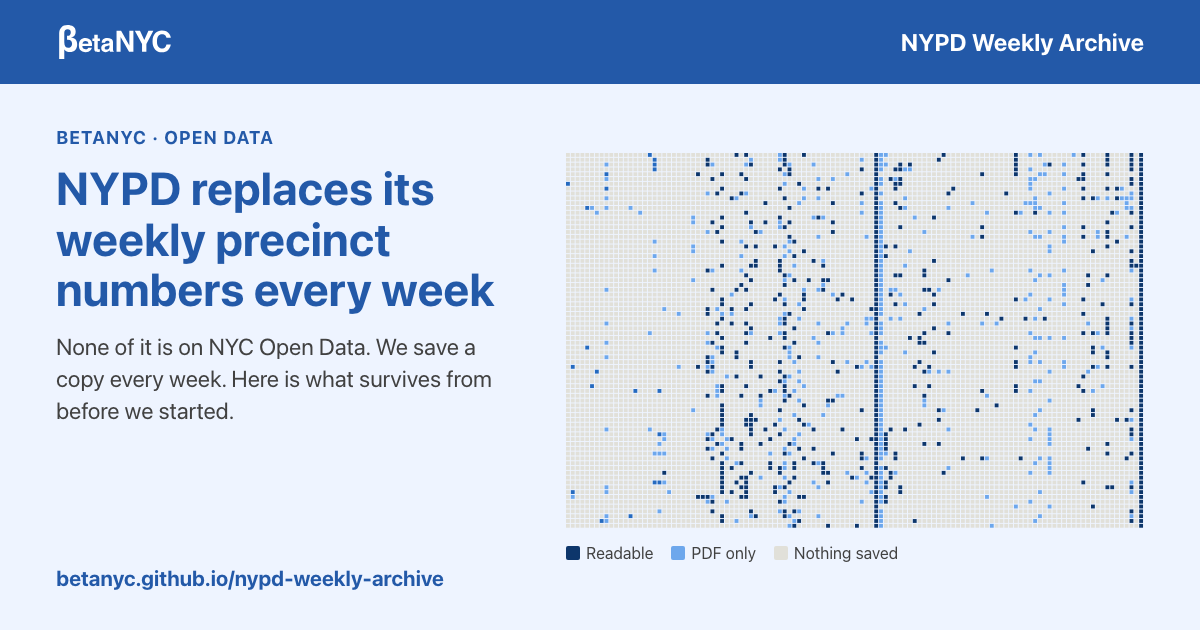
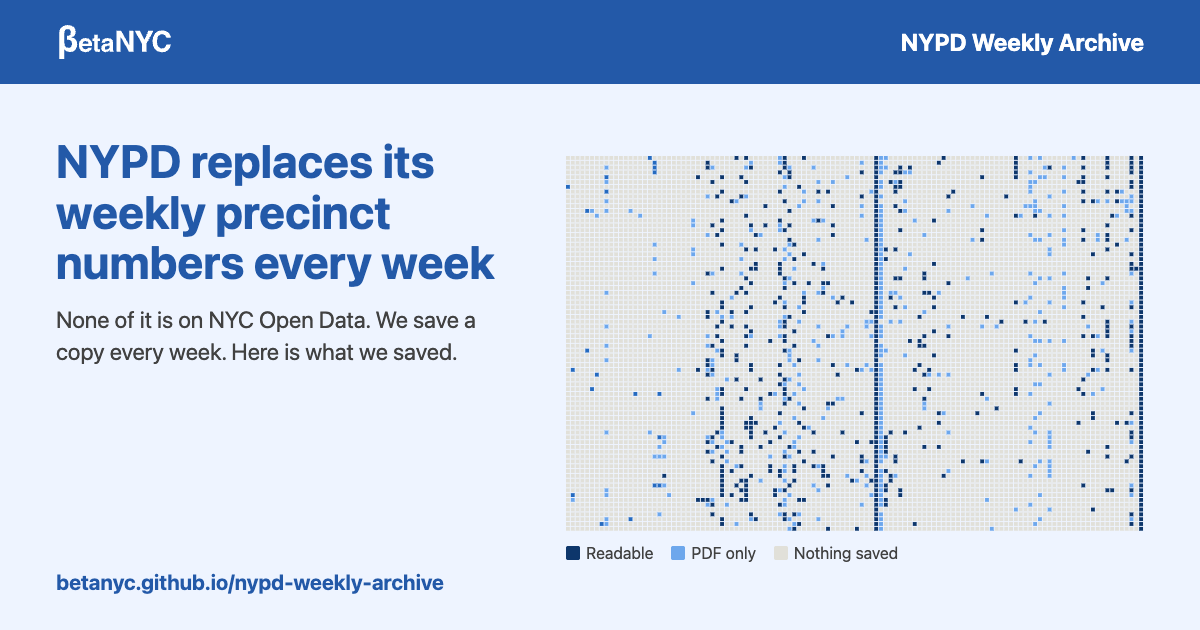
site: say "what we saved", drop the eyebrow line
"Which weeks survive" read wrong next to traffic deaths. Titles, headings,
card links, link previews and the README now say "what we saved". The small
line above each page title is gone, from the share picture too, which is
redrawn.

Refs #14

diff --git a/docs/index.html b/docs/index.html
@@ -11,7 +11,7 @@
 <meta property="og:type" content="website">
 <meta property="og:site_name" content="BetaNYC">
 <meta property="og:title" content="NYPD Weekly Archive: precinct statistics, saved every week">
-<meta property="og:description" content="NYPD replaces its weekly precinct statistics every week, and none of them are on NYC Open Data. We save a copy every week. See which weeks survive for your precinct.">
+<meta property="og:description" content="NYPD replaces its weekly precinct statistics every week, and none of them are on NYC Open Data. We save a copy every week. See what we saved for your precinct.">
 <meta property="og:url" content="https://betanyc.github.io/nypd-weekly-archive/">
 <meta property="og:image" content="https://betanyc.github.io/nypd-weekly-archive/assets/og-image.png">
 <meta property="og:image:width" content="1200">
@@ -49,7 +49,6 @@
 
 <div class="hero">
   <div class="wrap">
-    <span class="tag">BetaNYC · open data</span>
     <h1>NYPD's weekly precinct numbers, saved before they are replaced</h1>
     <p class="lede">Every week, NYPD posts traffic and crime statistics for each of the city's 78 precincts on nyc.gov, as Excel and PDF files. The next week's files go up at the same addresses and the old ones are gone. NYPD does not publish these weekly figures as datasets on NYC Open Data, so once a file is replaced, that week is no longer available from the City.</p>
     <p class="lede">We save a copy of every file each week, turn the spreadsheets into tidy CSV files, and publish both here for anyone to use.</p>
@@ -71,7 +70,7 @@
   </tbody>
 </table></div>
 
-<h2 id="series">Which weeks survive <a class="anchor" href="#series" aria-label="Link to this section">#</a></h2>
+<h2 id="series">What we saved, week by week <a class="anchor" href="#series" aria-label="Link to this section">#</a></h2>
 <p>Each report has its own page, with a chart of the weeks we hold for every precinct and the same facts as a table.</p>
 <ul class="cards">
   <li class="card" data-series="trafficstat">
@@ -79,28 +78,28 @@
     <p>Crashes, injuries and deaths, DWI arrests, and parking and moving summonses.</p>
     <div class="n" data-k="weeks">–</div><div class="l"><span data-k="unit">weeks</span>, <span data-k="range">–</span></div>
     <div class="n" data-k="share">–</div><div class="l">of precinct-weeks held</div>
-    <a class="more" href="trafficstat.html">See which weeks survive<span class="visually-hidden"> for TrafficStat</span></a>
+    <a class="more" href="trafficstat.html">See what we saved<span class="visually-hidden"> for TrafficStat</span></a>
   </li>
   <li class="card" data-series="compstat">
     <h3><a href="compstat.html">CompStat</a></h3>
     <p>Crime complaints, shootings and hate crimes.</p>
     <div class="n" data-k="weeks">–</div><div class="l"><span data-k="unit">weeks</span>, <span data-k="range">–</span></div>
     <div class="n" data-k="share">–</div><div class="l">of precinct-weeks held</div>
-    <a class="more" href="compstat.html">See which weeks survive<span class="visually-hidden"> for CompStat</span></a>
+    <a class="more" href="compstat.html">See what we saved<span class="visually-hidden"> for CompStat</span></a>
   </li>
   <li class="card" data-series="fatalities">
     <h3><a href="fatalities.html">Traffic fatalities</a></h3>
     <p>Traffic deaths for 7 days, 28 days and the year to date.</p>
     <div class="n" data-k="weeks">–</div><div class="l"><span data-k="unit">weeks</span>, <span data-k="range">–</span></div>
     <div class="n" data-k="share">–</div><div class="l">of precinct-weeks held</div>
-    <a class="more" href="fatalities.html">See which weeks survive<span class="visually-hidden"> for Traffic fatalities</span></a>
+    <a class="more" href="fatalities.html">See what we saved<span class="visually-hidden"> for Traffic fatalities</span></a>
   </li>
   <li class="card" data-series="qteam">
     <h3><a href="quality-of-life.html">Quality of life</a></h3>
     <p>911 and 311 calls about noise, vehicles and disorderly behavior.</p>
     <div class="n" data-k="weeks">–</div><div class="l"><span data-k="unit">weeks</span>, <span data-k="range">–</span></div>
     <div class="n" data-k="share">–</div><div class="l">of precinct-weeks held</div>
-    <a class="more" href="quality-of-life.html">See which weeks survive<span class="visually-hidden"> for Quality of life</span></a>
+    <a class="more" href="quality-of-life.html">See what we saved<span class="visually-hidden"> for Quality of life</span></a>
   </li>
 </ul>
 

diff --git a/docs/compstat.html b/docs/compstat.html
@@ -3,16 +3,16 @@
 <head>
 <meta charset="utf-8">
 <meta name="viewport" content="width=device-width, initial-scale=1">
-<title>CompStat: which weeks survive, precinct by precinct | NYPD Weekly Archive</title>
-<meta name="description" content="NYPD's weekly CompStat crime report for each precinct, from 2014 on, gathered from five sources. See which weeks survive for your precinct.">
+<title>CompStat: what we saved, precinct by precinct | NYPD Weekly Archive</title>
+<meta name="description" content="NYPD's weekly CompStat crime report for each precinct, from 2014 on, gathered from five sources. See what we saved for your precinct.">
 <link rel="icon" href="assets/favicon.svg" type="image/svg+xml">
 <link rel="stylesheet" href="assets/site.css">
 <link rel="stylesheet" href="assets/archive.css">
 <link rel="canonical" href="https://betanyc.github.io/nypd-weekly-archive/compstat.html">
 <meta property="og:type" content="website">
 <meta property="og:site_name" content="BetaNYC">
-<meta property="og:title" content="CompStat: which weeks survive, precinct by precinct">
-<meta property="og:description" content="NYPD's weekly CompStat crime report for each precinct, from 2014 on, gathered from five sources. See which weeks survive for your precinct.">
+<meta property="og:title" content="CompStat: what we saved, precinct by precinct">
+<meta property="og:description" content="NYPD's weekly CompStat crime report for each precinct, from 2014 on, gathered from five sources. See what we saved for your precinct.">
 <meta property="og:url" content="https://betanyc.github.io/nypd-weekly-archive/compstat.html">
 <meta name="twitter:card" content="summary">
 <script>window.SERIES = {"key": "compstat", "name": "CompStat", "folders": [{"text": "data/compstat/", "href": "https://github.com/BetaNYC/nypd-weekly-archive/tree/main/data/compstat"}, {"text": "data/compstat_mcdermott/", "href": "https://github.com/BetaNYC/nypd-weekly-archive/tree/main/data/compstat_mcdermott"}, {"text": "data/compstat_greenman/", "href": "https://github.com/BetaNYC/nypd-weekly-archive/tree/main/data/compstat_greenman"}], "nypdFile": "This week's CompStat spreadsheet"};</script>
@@ -44,8 +44,7 @@
 
 <div class="hero">
   <div class="wrap">
-    <span class="tag">NYPD Weekly Archive · CompStat</span>
-    <h1>CompStat: which weeks survive, precinct by precinct</h1>
+    <h1>CompStat: what we saved, precinct by precinct</h1>
     <p class="lede">CompStat is NYPD's weekly crime report for each precinct: crime complaints, shootings and hate crimes, against the same weeks in earlier years. NYPD replaces it every week.</p>
     <p class="lede">Others saved it long before we did, so this page brings five sources together: PDFs that Aaron Schumacher saved from 2014 to 2016 (<a href="https://github.com/ajschumacher/nypd">ajschumacher/nypd</a>); CSV files Tim McDermott, a BetaNYC volunteer, made from January 2015 to February 2026; numbers from Josh Greenman's <a href="https://github.com/joshgreenman1973/nypd-compstat-scraper">nypd-compstat-scraper</a> from March 2026, used with his permission; copies in the Internet Archive's Wayback Machine; and our own weekly saves since November 2026.</p>
     <p class="hero-meta">Data from the <a href="https://www.nyc.gov/site/nypd/stats/crime-statistics/borough-and-precinct-crime-stats.page">New York City Police Department</a>. Last file saved <time id="built"></time>.</p>
@@ -61,7 +60,7 @@
   <div class="stat"><div class="n"><span data-total="read_from_other_archives_only">–</span></div><div class="l">of those, only from Tim McDermott's or Josh Greenman's numbers</div></div>
 </div>
 
-<h2 id="coverage-h">What survives <a class="anchor" href="#coverage" aria-label="Link to this chart">#</a></h2>
+<h2 id="coverage-h">What we saved <a class="anchor" href="#coverage" aria-label="Link to this chart">#</a></h2>
 <p>Each square is one precinct for one week. Dark squares are weeks with numbers we can use. Gray squares are weeks no one saved. Pick a precinct, or click its row, to see its weeks and get a link to share. The table below the chart has the same counts as text.</p>
 
 <figure class="figure" id="coverage">

diff --git a/docs/fatalities.html b/docs/fatalities.html
@@ -3,16 +3,16 @@
 <head>
 <meta charset="utf-8">
 <meta name="viewport" content="width=device-width, initial-scale=1">
-<title>Traffic fatalities: which weeks survive, precinct by precinct | NYPD Weekly Archive</title>
-<meta name="description" content="NYPD's weekly traffic fatality counts for each precinct, saved before they are replaced. See which weeks survive for your precinct.">
+<title>Traffic fatalities: what we saved, precinct by precinct | NYPD Weekly Archive</title>
+<meta name="description" content="NYPD's weekly traffic fatality counts for each precinct, saved before they are replaced. See what we saved for your precinct.">
 <link rel="icon" href="assets/favicon.svg" type="image/svg+xml">
 <link rel="stylesheet" href="assets/site.css">
 <link rel="stylesheet" href="assets/archive.css">
 <link rel="canonical" href="https://betanyc.github.io/nypd-weekly-archive/fatalities.html">
 <meta property="og:type" content="website">
 <meta property="og:site_name" content="BetaNYC">
-<meta property="og:title" content="Traffic fatalities: which weeks survive, precinct by precinct">
-<meta property="og:description" content="NYPD's weekly traffic fatality counts for each precinct, saved before they are replaced. See which weeks survive for your precinct.">
+<meta property="og:title" content="Traffic fatalities: what we saved, precinct by precinct">
+<meta property="og:description" content="NYPD's weekly traffic fatality counts for each precinct, saved before they are replaced. See what we saved for your precinct.">
 <meta property="og:url" content="https://betanyc.github.io/nypd-weekly-archive/fatalities.html">
 <meta name="twitter:card" content="summary">
 <script>window.SERIES = {"key": "fatalities", "name": "Traffic fatalities", "folders": [{"text": "data/fatalities/", "href": "https://github.com/BetaNYC/nypd-weekly-archive/tree/main/data/fatalities"}], "nypdFile": ""};</script>
@@ -44,8 +44,7 @@
 
 <div class="hero">
   <div class="wrap">
-    <span class="tag">NYPD Weekly Archive · Traffic fatalities</span>
-    <h1>Traffic fatalities: which weeks survive, precinct by precinct</h1>
+    <h1>Traffic fatalities: what we saved, precinct by precinct</h1>
     <p class="lede">Every week NYPD posts one traffic fatality file for each patrol borough, plus one for the Port Authority Police. Each file lists traffic deaths in each precinct for the last 7 days, the last 28 days and the year to date, against the same periods a year earlier. The next week's files replace them.</p>
     <p class="lede">This archive began saving them in November 2026. Each square below is one precinct for one week, taken from the precinct rows inside the patrol borough files.</p>
     <p class="hero-meta">Data from the <a href="https://www.nyc.gov/site/nypd/stats/traffic-data/traffic-fatalities.page">New York City Police Department</a>. Last file saved <time id="built"></time>.</p>
@@ -60,7 +59,7 @@
   <div class="stat"><div class="n"><span data-total="files_from_nyc_gov">–</span></div><div class="l">files saved from nyc.gov</div></div>
 </div>
 
-<h2 id="coverage-h">What survives <a class="anchor" href="#coverage" aria-label="Link to this chart">#</a></h2>
+<h2 id="coverage-h">What we saved <a class="anchor" href="#coverage" aria-label="Link to this chart">#</a></h2>
 <p>Each square is one precinct for one week. Dark squares are weeks with numbers we can use. Gray squares are weeks no one saved. Pick a precinct, or click its row, to see its weeks and get a link to share. The table below the chart has the same counts as text.</p>
 
 <figure class="figure" id="coverage">

diff --git a/docs/quality-of-life.html b/docs/quality-of-life.html
@@ -3,16 +3,16 @@
 <head>
 <meta charset="utf-8">
 <meta name="viewport" content="width=device-width, initial-scale=1">
-<title>Quality of life: which weeks survive, precinct by precinct | NYPD Weekly Archive</title>
-<meta name="description" content="NYPD's weekly quality-of-life report for each precinct, saved before it is replaced. See which weeks survive for your precinct.">
+<title>Quality of life: what we saved, precinct by precinct | NYPD Weekly Archive</title>
+<meta name="description" content="NYPD's weekly quality-of-life report for each precinct, saved before it is replaced. See what we saved for your precinct.">
 <link rel="icon" href="assets/favicon.svg" type="image/svg+xml">
 <link rel="stylesheet" href="assets/site.css">
 <link rel="stylesheet" href="assets/archive.css">
 <link rel="canonical" href="https://betanyc.github.io/nypd-weekly-archive/quality-of-life.html">
 <meta property="og:type" content="website">
 <meta property="og:site_name" content="BetaNYC">
-<meta property="og:title" content="Quality of life: which weeks survive, precinct by precinct">
-<meta property="og:description" content="NYPD's weekly quality-of-life report for each precinct, saved before it is replaced. See which weeks survive for your precinct.">
+<meta property="og:title" content="Quality of life: what we saved, precinct by precinct">
+<meta property="og:description" content="NYPD's weekly quality-of-life report for each precinct, saved before it is replaced. See what we saved for your precinct.">
 <meta property="og:url" content="https://betanyc.github.io/nypd-weekly-archive/quality-of-life.html">
 <meta name="twitter:card" content="summary">
 <script>window.SERIES = {"key": "qteam", "name": "Quality of life", "folders": [{"text": "data/qteam/", "href": "https://github.com/BetaNYC/nypd-weekly-archive/tree/main/data/qteam"}], "nypdFile": "This week's quality-of-life spreadsheet"};</script>
@@ -44,8 +44,7 @@
 
 <div class="hero">
   <div class="wrap">
-    <span class="tag">NYPD Weekly Archive · Quality of life</span>
-    <h1>Quality of life: which weeks survive, precinct by precinct</h1>
+    <h1>Quality of life: what we saved, precinct by precinct</h1>
     <p class="lede">NYPD's quality-of-life report (its Q-Team files) counts 911 and 311 calls for service in each precinct: noise, vehicle-related calls such as illegal parking, blocked driveways and double parking, and disorderly behavior. It runs a few weeks behind NYPD's other weekly files, and each week's file replaces the last.</p>
     <p class="lede">This archive began saving it in November 2026.</p>
     <p class="hero-meta">Data from the <a href="https://www.nyc.gov/site/nypd/stats/quality-of-life-stats/quality-of-life-stats.page">New York City Police Department</a>. Last file saved <time id="built"></time>.</p>
@@ -60,7 +59,7 @@
   <div class="stat"><div class="n"><span data-total="files_from_nyc_gov">–</span></div><div class="l">files saved from nyc.gov</div></div>
 </div>
 
-<h2 id="coverage-h">What survives <a class="anchor" href="#coverage" aria-label="Link to this chart">#</a></h2>
+<h2 id="coverage-h">What we saved <a class="anchor" href="#coverage" aria-label="Link to this chart">#</a></h2>
 <p>Each square is one precinct for one week. Dark squares are weeks with numbers we can use. Gray squares are weeks no one saved. Pick a precinct, or click its row, to see its weeks and get a link to share. The table below the chart has the same counts as text.</p>
 
 <figure class="figure" id="coverage">

diff --git a/docs/trafficstat.html b/docs/trafficstat.html
@@ -3,16 +3,16 @@
 <head>
 <meta charset="utf-8">
 <meta name="viewport" content="width=device-width, initial-scale=1">
-<title>TrafficStat: which weeks survive, precinct by precinct | NYPD Weekly Archive</title>
-<meta name="description" content="NYPD's weekly TrafficStat report for each precinct, saved before it is replaced. See which weeks survive for your precinct.">
+<title>TrafficStat: what we saved, precinct by precinct | NYPD Weekly Archive</title>
+<meta name="description" content="NYPD's weekly TrafficStat report for each precinct, saved before it is replaced. See what we saved for your precinct.">
 <link rel="icon" href="assets/favicon.svg" type="image/svg+xml">
 <link rel="stylesheet" href="assets/site.css">
 <link rel="stylesheet" href="assets/archive.css">
 <link rel="canonical" href="https://betanyc.github.io/nypd-weekly-archive/trafficstat.html">
 <meta property="og:type" content="website">
 <meta property="og:site_name" content="BetaNYC">
-<meta property="og:title" content="TrafficStat: which weeks survive, precinct by precinct">
-<meta property="og:description" content="NYPD's weekly TrafficStat report for each precinct, saved before it is replaced. See which weeks survive for your precinct.">
+<meta property="og:title" content="TrafficStat: what we saved, precinct by precinct">
+<meta property="og:description" content="NYPD's weekly TrafficStat report for each precinct, saved before it is replaced. See what we saved for your precinct.">
 <meta property="og:url" content="https://betanyc.github.io/nypd-weekly-archive/trafficstat.html">
 <meta property="og:image" content="https://betanyc.github.io/nypd-weekly-archive/assets/og-image.png">
 <meta property="og:image:width" content="1200">
@@ -48,8 +48,7 @@
 
 <div class="hero">
   <div class="wrap">
-    <span class="tag">NYPD Weekly Archive · TrafficStat</span>
-    <h1>TrafficStat: which weeks survive, precinct by precinct</h1>
+    <h1>TrafficStat: what we saved, precinct by precinct</h1>
     <p class="lede">TrafficStat is NYPD's weekly report on traffic safety in each precinct: crashes, injuries and deaths by mode, DWI arrests, and parking and moving summonses. NYPD began posting a file for each precinct in August 2024 and replaces it every week.</p>
     <p class="lede">Before this archive started, the only old copies were the ones the Internet Archive's Wayback Machine had saved. We downloaded all of them.</p>
     <p class="hero-meta">Data from the <a href="https://www.nyc.gov/site/nypd/stats/traffic-data/traffic-data-trafficstat.page">New York City Police Department</a>. Last file saved <time id="built"></time>.</p>
@@ -65,7 +64,7 @@
   <div class="stat"><div class="n"><span data-total="files_from_internet_archive">–</span></div><div class="l">old copies recovered from the Internet Archive</div></div>
 </div>
 
-<h2 id="coverage-h">What survives <a class="anchor" href="#coverage" aria-label="Link to this chart">#</a></h2>
+<h2 id="coverage-h">What we saved <a class="anchor" href="#coverage" aria-label="Link to this chart">#</a></h2>
 <p>Each square is one precinct for one week. Dark squares are weeks with numbers we can use. Gray squares are weeks no one saved. Pick a precinct, or click its row, to see its weeks and get a link to share. The table below the chart has the same counts as text.</p>
 
 <figure class="figure" id="coverage">

diff --git a/docs/assets/social-card.html b/docs/assets/social-card.html
@@ -14,7 +14,6 @@
   .bar img { height: 40px; }
   .body { flex: 1; display: flex; gap: 40px; padding: 40px 56px 36px; }
   .text { flex: 0 0 470px; display: flex; flex-direction: column; }
-  .tag { font-size: 18px; font-weight: 700; letter-spacing: .06em; text-transform: uppercase; color: #2359a8; }
   h1 { font-size: 46px; line-height: 1.1; color: #2359a8; margin: 12px 0 16px; }
   p { font-size: 23px; line-height: 1.4; margin: 0; }
   .url { margin-top: auto; font-size: 21px; font-weight: 700; color: #2359a8; }
@@ -29,9 +28,8 @@
   <div class="bar"><img src="betanyc-wordmark-white.svg" alt="BetaNYC"><span>NYPD Weekly Archive</span></div>
   <div class="body">
     <div class="text">
-      <div class="tag">BetaNYC · open data</div>
       <h1>NYPD replaces its weekly precinct numbers every week</h1>
-      <p>None of it is on NYC Open Data. We save a copy every week. Here is what survives from before we started.</p>
+      <p>None of it is on NYC Open Data. We save a copy every week. Here is what we saved.</p>
       <div class="url">betanyc.github.io/nypd-weekly-archive</div>
     </div>
     <div class="grid">

diff --git a/README.md b/README.md
@@ -4,7 +4,7 @@ NYPD posts four sets of weekly statistics on nyc.gov as Excel and PDF files. Eac
 
 This repository saves a copy every week and turns the spreadsheets into tidy CSV files.
 
-**Website: <https://betanyc.github.io/nypd-weekly-archive/>** explains the project, and has one page per series (TrafficStat, CompStat, traffic fatalities, quality of life) charting which weeks of each precinct's file survive. Link to one precinct with, for example, `compstat.html?precinct=034#coverage`. Older links (`?precinct=034#coverage` on the home page) forward to the TrafficStat page.
+**Website: <https://betanyc.github.io/nypd-weekly-archive/>** explains the project, and has one page per series (TrafficStat, CompStat, traffic fatalities, quality of life) charting what we saved for each precinct, week by week. Link to one precinct with, for example, `compstat.html?precinct=034#coverage`. Older links (`?precinct=034#coverage` on the home page) forward to the TrafficStat page.
 
 ## What it captures
 
